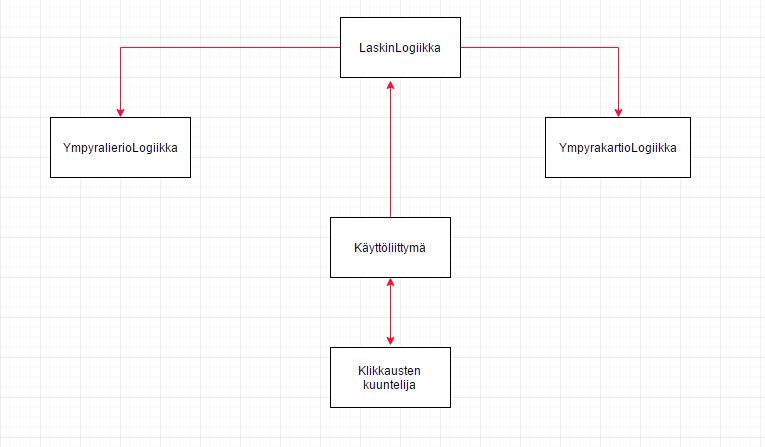
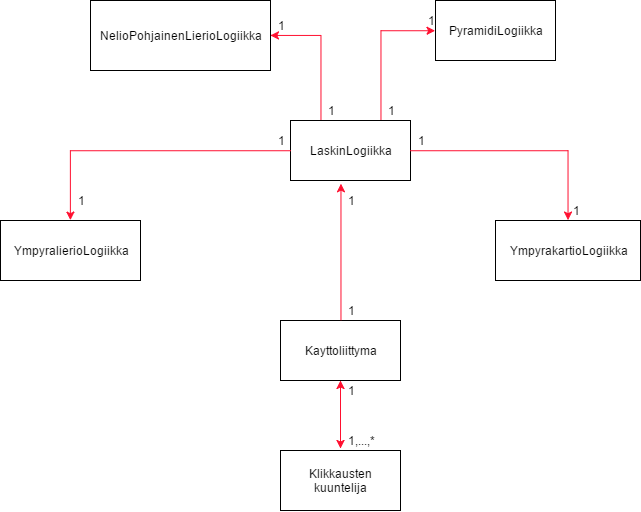
update luokkakaavio, update checkstyle, added mysuppressions and update Kayttoliittyma

diff --git a/Pinta-alaJaTilavuusLaskin/src/main/java/fi/blerine/laskin/kayttoliittyma/Kayttoliittyma.java b/Pinta-alaJaTilavuusLaskin/src/main/java/fi/blerine/laskin/kayttoliittyma/Kayttoliittyma.java
@@ -6,6 +6,7 @@ import java.awt.GridLayout;
 import javax.swing.JButton;
 import javax.swing.JFrame;
 import javax.swing.JLabel;
+import javax.swing.JTextArea;
 import javax.swing.WindowConstants;
 
 public class Kayttoliittyma implements Runnable {
@@ -29,17 +30,25 @@ public class Kayttoliittyma implements Runnable {
     }
 
     private void luoKomponentit(Container container) {
-        GridLayout layout = new GridLayout(2, 1);
+        GridLayout layout = new GridLayout(3, 2);
         container.setLayout(layout);
         
         JButton lierioNappi = new JButton("Lieriö");
         JButton kartioNappi = new JButton("Kartio");
+        JButton ympyraNappi = new JButton("Ympyrä");
+        JButton nelioNappi = new JButton("Neliö");
+        JTextArea sadeTaiKantaTeksti = new JTextArea("Säde/Kanta senttimetreinä: \n");
+        JTextArea korkeusTeksti = new JTextArea("Korkeus senttimetreinä: \n");
         
         container.add(lierioNappi);
         container.add(kartioNappi);
+        container.add(ympyraNappi);
+        container.add(nelioNappi);
+        container.add(sadeTaiKantaTeksti);
+        container.add(korkeusTeksti);
+        
 
-        JLabel teksti = new JLabel("Testiä...");
-        container.add(teksti);
+ 
     }
 
     public JFrame getFrame() {
